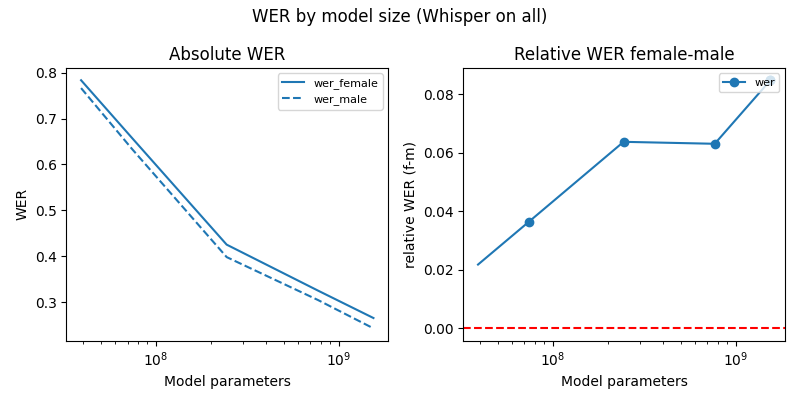
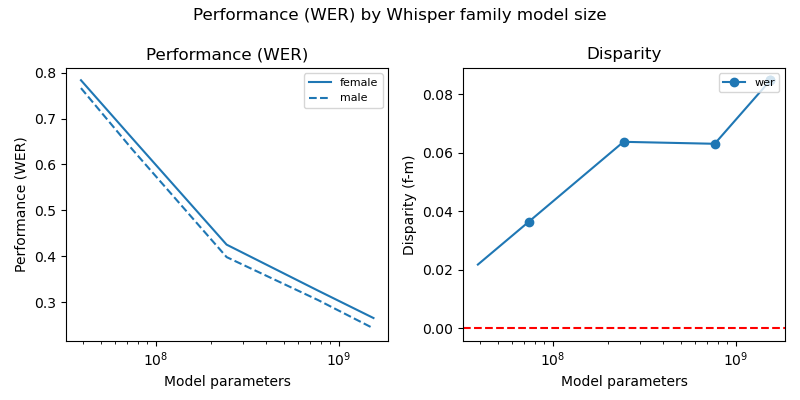
changing plot titles

diff --git a/visualize.py b/visualize.py
@@ -323,10 +323,10 @@ def plot_wer_by_model_size(results, dataset):
 
   plt.clf() 
   plt.figure(figsize = (8,4))
-  plt.suptitle(f'WER by model size (Whisper on {dataset})')
+  plt.suptitle(f'Performance (WER) by Whisper family model size')
   plt.subplot(1, 2, 1) # row 1, col 2 index 1 --> absolute WERS
 
-  plt.title(f'Absolute WER')
+  plt.title(f'Performance (WER)')
 
   sizes_and_wers_m_to_plot = []
   sizes_and_wers_f_to_plot = []
@@ -343,17 +343,17 @@ def plot_wer_by_model_size(results, dataset):
         MODEL_PARAMETERS[model],
         wer_info_m.wer))
     
-  p, = plt.plot(*zip(*sizes_and_wers_f_to_plot), label='wer_female')
-  plt.plot(*zip(*sizes_and_wers_m_to_plot), label='wer_male',
+  p, = plt.plot(*zip(*sizes_and_wers_f_to_plot), label='female')
+  plt.plot(*zip(*sizes_and_wers_m_to_plot), label='male',
            color=p.get_color(), linestyle='--')
   plt.xlabel('Model parameters')
-  plt.ylabel('WER')
+  plt.ylabel('Performance (WER)')
   plt.xscale("log")
   plt.legend(loc='upper right', fontsize='8')
 
   plt.subplot(1, 2, 2) # row 1, col 2 index 1 --> relative WERS
 
-  plt.title(f'Relative WER female-male')
+  plt.title(f'Disparity') # female-male
   plt.axhline(y = 0, color = 'r', linestyle = '--')
 
   sizes_and_wers_to_plot = []
@@ -374,7 +374,7 @@ def plot_wer_by_model_size(results, dataset):
   plt.plot(*zip(*sizes_and_wers_to_plot), marker='o', label='wer',
            markevery=markerson)
   plt.xlabel('Model parameters')
-  plt.ylabel('relative WER (f-m)')
+  plt.ylabel('Disparity (f-m)')
   plt.xscale("log")
   plt.legend(loc='upper right', fontsize='8')
   plt.tight_layout()
